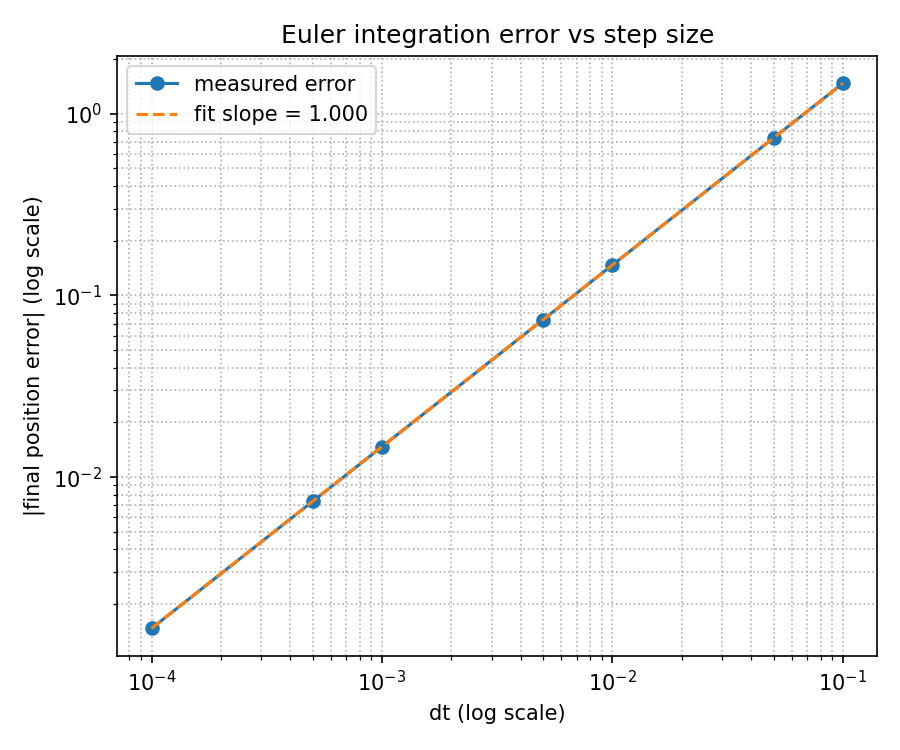
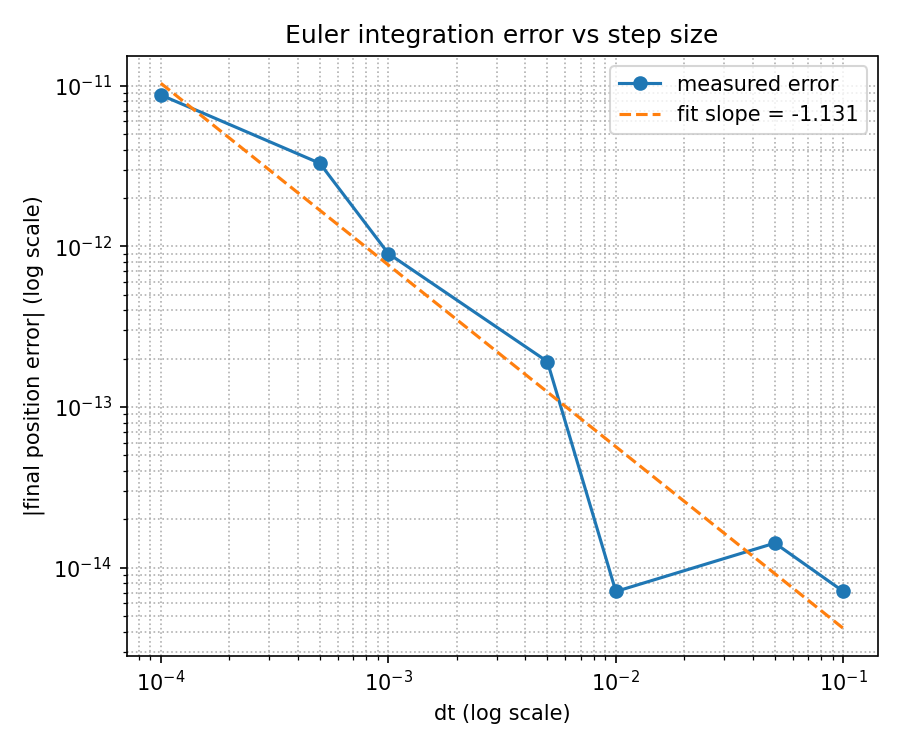
improve euler method to rk4

diff --git a/src/physics/particle.hpp b/src/physics/particle.hpp
@@ -1,17 +1,13 @@
 #pragma once
 
 #include "../math/vec2.hpp"
+#include "../math/RK4.hpp"
 
-// 自由落體用的最小質點：只有位置、速度。
-// 沒有把 g 或 dt 藏在這個 struct 裡——它們是每次呼叫時傳進來的參數，
-// 這樣同一個 Particle/step 邏輯才能被 1.3、1.4 反覆用不同 dt、不同 g 呼叫，
-// 不用擔心殘留的全域狀態把上一次模擬的結果帶進這一次。
 struct Particle {
     vec2 position;
     vec2 velocity;
 };
 
-// 單一步：semi-implicit Euler（先更新速度，再用新速度更新位置）。
 inline void step_particle(Particle& p, double g, double dt) {
     p.velocity.set_y(p.velocity.y() + g * dt);
 
@@ -19,9 +15,6 @@ inline void step_particle(Particle& p, double g, double dt) {
     p.position.set_y(p.position.y() + p.velocity.y() * dt);
 }
 
-// 跑一整趟模擬：吃初始條件、g、dt、要跑幾步，回傳最終狀態。
-// 純函式風格——參數進、結果出，內部不碰任何全域變數，
-// 這是 1.3 能對同一組物理反覆跑不同 dt 的關鍵。
 inline Particle simulate_free_fall(vec2 initial_position,
                                     vec2 initial_velocity,
                                     double g,
@@ -29,13 +22,26 @@ inline Particle simulate_free_fall(vec2 initial_position,
                                     int steps) {
     Particle p{initial_position, initial_velocity};
     for (int i = 0; i < steps; ++i) {
-        step_particle(p, g, dt);
+        // step_particle(p, g, dt);
+        vec2 state(p.position.y(), p.velocity.y());
+        auto f = [g](double t, vec2 state) {
+            double position = state.x();
+            double velocity = state.y();
+            double dposition_dt = velocity;
+            double dvelocity_dt = g;
+            return vec2(dposition_dt, dvelocity_dt);
+        };
+
+        vec2 new_state = integrate(f, state, 0.0, dt);
+        p.position.set_y(new_state.x());
+        p.velocity.set_y(new_state.y());
+
+        // std::cout << "Step " << i << ": Position = (" << p.position.x() << ", " << p.position.y() << "), "
+        //      << "Velocity = (" << p.velocity.x() << ", " << p.velocity.y() << ")" << std::endl;
     }
     return p;
 }
 
-// 自由落體的解析解（y 方向）：y(t) = y0 + vy0*t + 1/2*g*t^2
-// 這是「真正答案」，數值模擬的誤差就是拿這個當比較基準。
 inline double analytical_y(double y0, double vy0, double g, double t) {
     return y0 + vy0 * t + 0.5 * g * t * t;
 }

diff --git a/src/math/RK4.hpp b/src/math/RK4.hpp
@@ -1,0 +1,12 @@
+#pragma once
+
+#include "vec2.hpp"
+#include <functional>
+
+inline vec2 integrate(std::function<vec2(double, vec2)> f, vec2 state, double t0, double dt) {
+    vec2 k1 = f(t0, state);
+    vec2 k2 = f(t0 + dt / 2.0, state + k1 * dt / 2.0);
+    vec2 k3 = f(t0 + dt / 2.0, state + k2 * dt / 2.0);
+    vec2 k4 = f(t0 + dt, state + k3 * dt);
+    return state + (k1 + 2.0 * k2 + 2.0 * k3 + k4) * dt / 6.0;
+}

diff --git a/src/main.cpp b/src/main.cpp
@@ -10,7 +10,7 @@ int main() {
     const double g = -9.8;
     const double total_time = 3.0;
     const vec2 initial_position(0.0, 0.0);
-    const vec2 initial_velocity(1.0, 0.0);
+    const vec2 initial_velocity(0.0, 0.0);
 
     // 從粗到細，故意跨好幾個數量級，log-log 圖才看得出斜率。
     const std::vector<double> dts = {0.1, 0.05, 0.01, 0.005, 0.001, 0.0005, 0.0001};